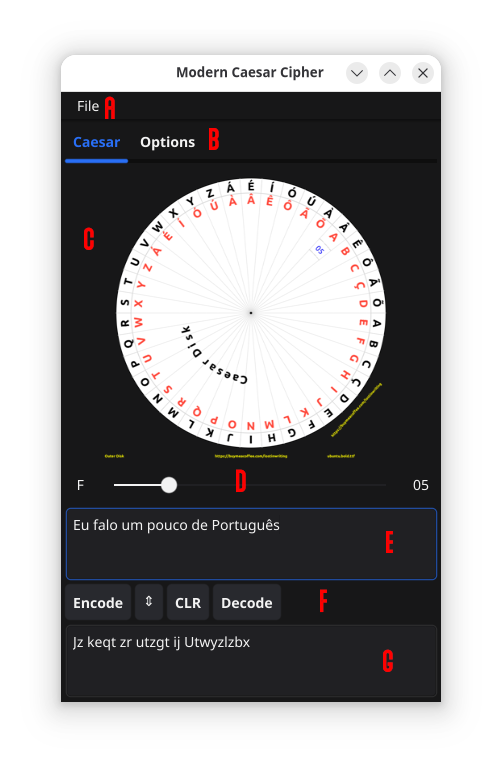
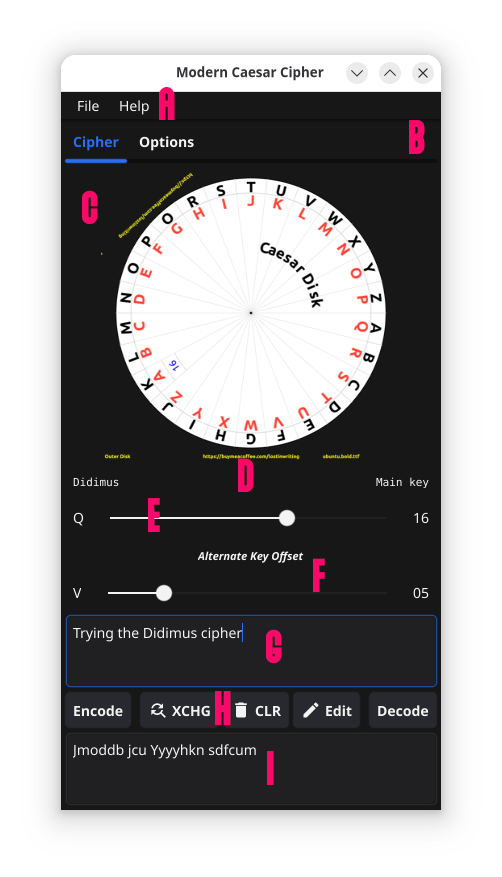
#10 update documentation

diff --git a/docs/GUI_TREE.md b/docs/GUI_TREE.md
@@ -1,0 +1,130 @@
+# Designing the GUI
+
+ Mark  | Description |
+| :---: | :---:       |
+| 🛈    | The purpose of the widget |
+| ⟫     | Condition that should be fulfilled for the widget to be enabled |
+| ↯     | When the widget is clicked, i.e. buttons, menuItem    |
+| 🢱     | Widgets down the chain that get affected by the `OnChange` event      |
+| 🢰     | Widgets down the chain that get affected by the `OnValidate` event   |
+| Ⓤ     | Unbound Data model that gets updated | 
+| Ⓑ     | Bound Data model that gets updated |
+
+## Data Model - 
+
+* CurrentKeySequencer (IKeySequencer)
+* CurrentTranscoder (ITranscoder)
+* CaesarParams.Alphabet
+* CaesarParams.KeyValue
+* CaesarParams.KeyOffset
+
+## Main Menu Bar
+
+· File|Open
+	🛈 Opens a text file and loads it into the input TextEntry widget
+	
+· File|Quit
+	🛈 Terminate the Graphical User Interface main window loop and return to CLI
+
+
+## Main Canvas
+
+### ✅ AlphabetGadget (Options Tab)
+Displays the encoding alphabet (English, Spanish, German, Punctuation, etc.)
+Provides: IAlphabetService
+Uses    : IParamProvider
+
+· {AlphabetGadget}.Selector
+	🛈 User selects encoding alphabet
+	Ⓤ {Data.Alphabet} gets updated
+	Ⓤ {Data.KeyValue} set to 0
+	↯ [changed] {DataGadget}.Clear
+	↯ [changed] {KeyGadget} set key to zero (Clear)
+	↯ [changed] {WheelGadget}
+	
+· {AlphabetGadget}.Alphabet
+	🛈 A label that displays all the characters in the selected alphabet
+
+### ✅ CipherModeGadget (Options Tab)
+Displays the alphabet selection
+Provides: ICipherModeService
+Uses    : none
+
+· {CipherModeGadget}.Selector
+	🛈 User selects encoding algorithm (Caesar, Didimus, Fibonacci)
+	↯ [value = Didimus] {OffsetGadget}.Show()
+	↯ [value != Didimus] {OffsetGadget}.Hide()
+
+### ✅ WheelGadget (Main Tab)
+Displays the Caesar encoder wheel. It gets updated when the key is set.
+Provides: IWheelUpdateService
+Uses    : IAlphabetService
+
+· {WheelGadget}.Image
+	🛈 Displays the Caesar wheel with the current Key or Offset
+	↯ Toggle between main `KeyShift` and `KeyOffset` disks.
+	
+### ✅ CaesarKeyGadget (Main Tab)
+Handles all UI actions related to the main Caesar key.
+Provides: ICaesarKeyService
+Uses    : IAlphabetService, IParamProvider
+
+⟫ {CipherModeGadget.Selected} is any of Caesar, Didimus or Fibonacci
+
+· {CaesarKeyGadget}.LabelKey
+	🛈 Displays the character corresponding to `KeyShift` for selected alphabet
+
+· {CaesarKeyGadget}.Slider
+	🛈 The user slides left & right to set the `KeyShift` value (Caesar main key)
+	🢱 {CaesarKeyGadget}.LabelKey
+	🢱 {CaesarKeyGadget}.LabelKeyShift
+	Ⓤ {Data.KeyValue} 
+
+· {KeyGadget}.LabelKeyShift
+	🛈  Displays the integer correspoding to the `KeyShift` selected in Slider
+	
+### ✅ OffsetGadget (Main Tab)
+Handles every UI action related to the Offset shift used in Didimus & Fibonacci.
+Provides: IKeyOffsetService
+Uses    : IAlphabetService, IParamsService
+
+⟫ {CipherModeGadget.Selected} is Didimus
+ 
+· {OffsetGadget}.LabelKey
+	🛈 Displays the character corresponding to `KeyShift` for selected alphabet
+
+· {OffsetGadget}.Slider
+	🛈 The user slides left & right to set the `KeyShift` value (Caesar main key)
+	🢱 {OffsetGadget}.LabelKey
+	🢱 {OffsetGadget}.LabelKeyShift
+	Ⓤ {Data.Offset} 
+
+· {OffsetGadget}.LabelKeyShift
+	🛈  Displays the integer correspoding to the `KeyShift` selected in Slider
+	
+### DataGadget (Main Tab)
+Displays the input and output texts as well as the action buttons.
+Provides: 
+Uses    : 
+
+· {DataGadget}.InputText (widget.MultiLineEntry)
+
+· {DataGadget}.OutputText (widget.MultiLineEntry)
+
+· {DataGadget}.Encode (widget.Button)
+	⟫ {DataGadget}.InputText length > 0
+	↯ {DataGadget}.OutputText updated with encrypted text result
+
+· {DataGadget}.Decode (widget.Button)
+	⟫ {DataGadget}.InputText length > 0
+	↯ {DataGadget}.OutputText updated with decrypted text result
+
+· {DataGadget}.CLR (widget.Button)
+	⟫ {DataGadget}.InputText length > 0
+	↯ {DataGadget}.InputText clear
+	↯ {DataGadget}.OutputText clear
+
+· {DataGadget}.Exchange (widget.Button)
+	⟫ {DataGadget}.InputText length > 0
+	↯ swap contents of {DataGadget}.InputText and {DataGadget}.OutputText
+	

diff --git a/docs/README_GUI.md b/docs/README_GUI.md
@@ -1,5 +1,5 @@
 # GoCaesarDisk GUI
-`Created: 27 Dec 2025`    `Updated: 30 Dec 2025`
+`Created: 27 Dec 2025`    `Updated: 15 Jan 2026`
 
 Yes, just for fun and as an educational project, I decided to add a simple
 Graphical User Interface command application to this `CaesarDisk` module.
@@ -20,6 +20,7 @@ The main application window is composed of two tabs described below:
 The `Options` tab allows you to configure the application for encoding
 and decoding text using an enhanced Caesar cipher.
 
+* Select the Caesar variant (mode)
 * Select the alphabet, i.e. the character set of the language in which
   you will exchange messages.
 * When selected, the label below will show you the entire character set 
@@ -41,35 +42,42 @@ and even Runes!
 This is where all the fun happens, encoding and decoding text. This
 main tab has several sections:
 
-* **A**: The main toolbar menu. Currently only File|Quit.
+* **A**: The main toolbar menu. Currently only File|Quit & Help|About.
 * **B**: The application tab (main & options) selector
 * **C**: The dynamic Caesar encoding wheel
-* **D**: The `Caesar Key` selection via the slider, its character
+* **D**: Info dashboard: on the left the selected *cipher mode* and
+  on the right whether it is displaying the Main or Alternate key. 
+  The right label is clickable if the Offset is being shown.
+* **E**: The `Main Caesar Key` selection via the slider, its character
   and numeric shift value equivalents are shown as you slide.
-* **E**: The input text, whether to *Encode* OR *Decode*
-* **F**: Actions buttons to *Encode, Exchange, Clear & Decode*
-* **G**: The output text after encoding or decoding.
+* **F**: The `Alternate Key Offset` is displayed only for Didimus & Primus
+  cipher modes. Otherwise it is hidden.
+* **G**: The *input text*, whether to *Encode* OR *Decode*
+* **H**: Actions buttons to *Encode, Exchange, Clear, Edit & Decode*
+* **I**: The *output text* after encoding or decoding.
 
 So, it is quite simple. Based on the language (source alphabet)
 you choose on the Options tab, you are able to encode or decode
 messages on this main tab.
 
-First you select the `Caesar Key` in **D**. You do that that by moving
+First you select the `Main Caesar Key` in **E**. You do that that by moving
 the slider left or right, from zero (0) up to the number of 
 characters in the chosen alphabet minus one. As you move the
 slider, the letter key is updated on the left side, and its
 numerical equivalent (`Caesar Shift`) is updated on the right.
 
 When you finish moving the slider, you enter the text to encode
-or decode in the **E** input text widget. The output of the
-actions will always be shown on the **G** text widget.
+or decode in the **G** input text widget. The output of the
+actions will always be shown on the **I** text widget.
 
-Once you have text in **E**, the Encode & Decode buttons will
+Once you have text in **G**, the Encode & Decode buttons will
 become activated. If you entered *Plain Text* then you should
-use the **Encode** button. If on the other hand your **E** input
+use the **Encode** button. If on the other hand your **G** input
 text is already *Caesar encoded*, you would use the **Decode**
 button. The **CLR** button clears both text fields and the button
 with the arrows exchanges the contents of both for your convenience.
+There is also an edit button that lets you edit the input text in
+a bigger window.
 
 ## PDU Format
 
